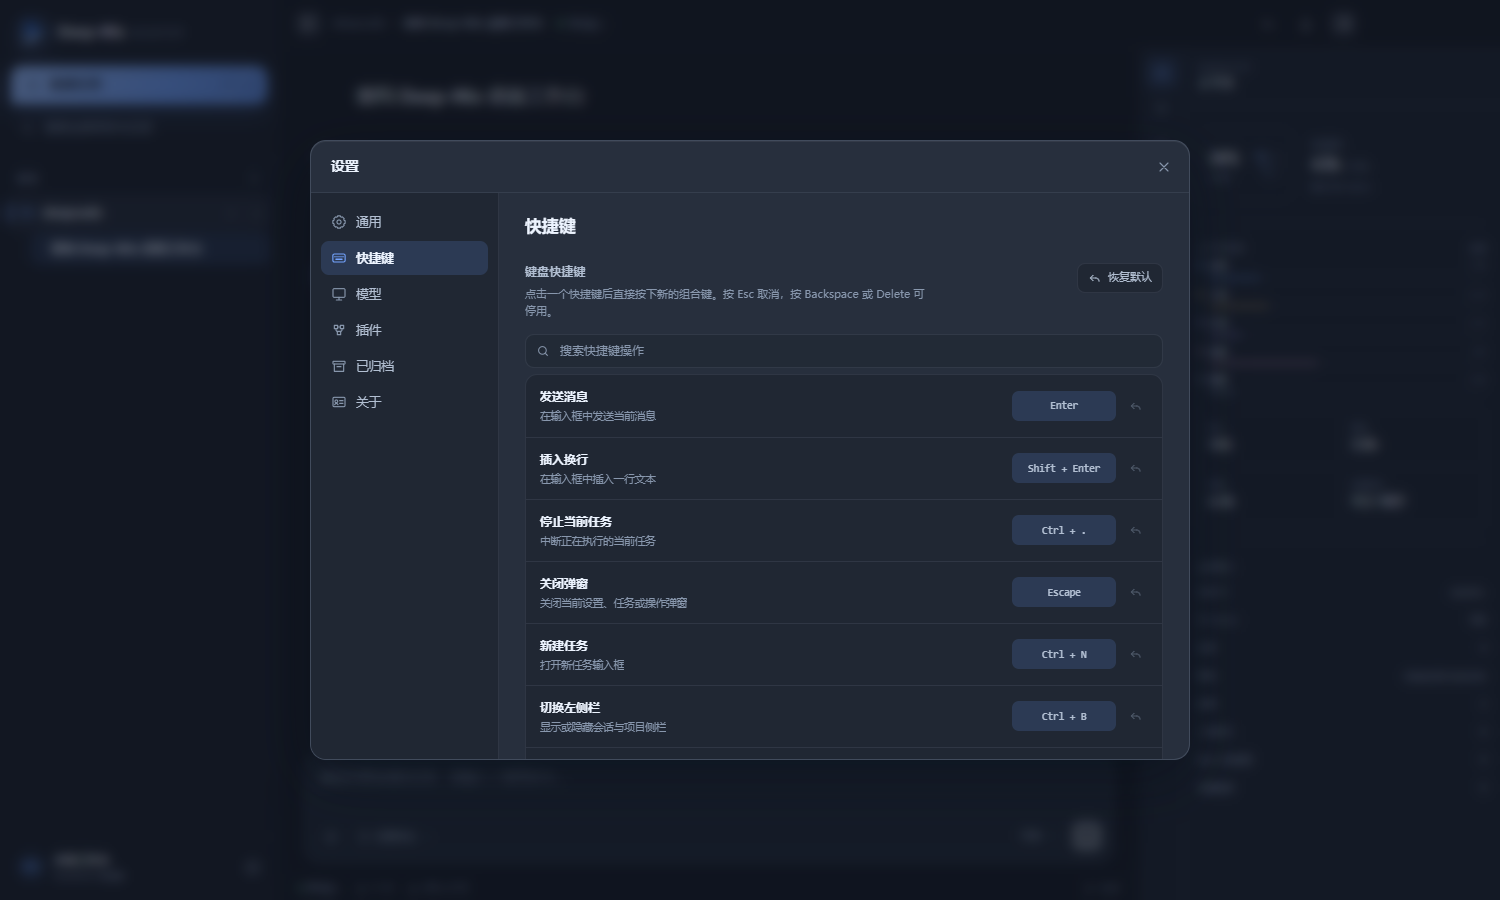
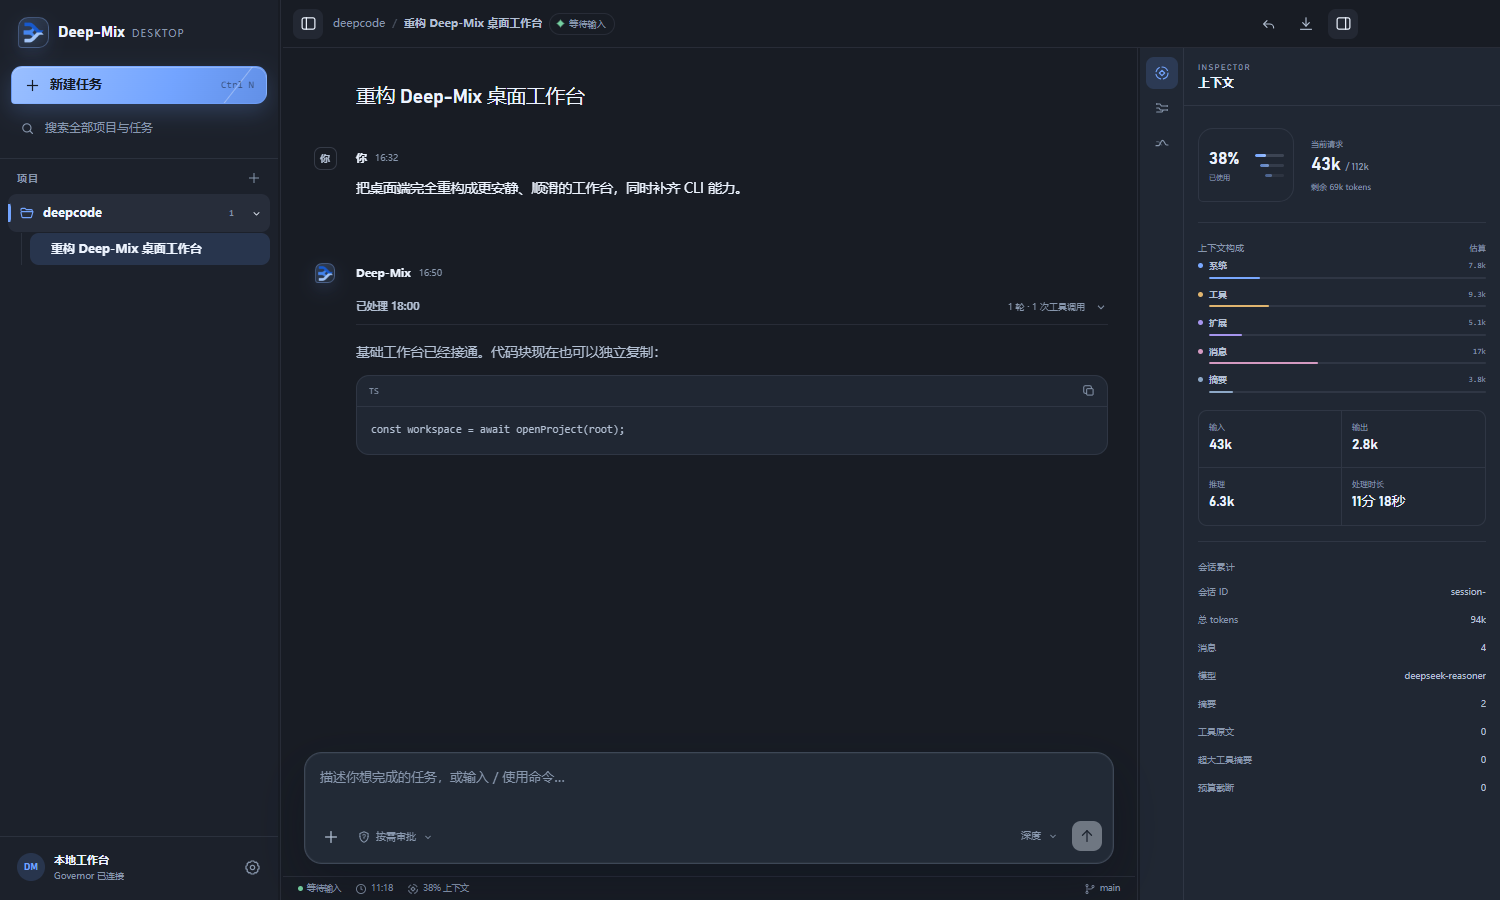
修正：同时展示 Desktop 工作台与设置能力
- README 主图恢复为完整亮色和暗色桌面工作台
- 模型中心与可配置快捷键作为双栏补充截图
- 所有画面使用脱敏演示数据

diff --git a/README.md b/README.md
@@ -8,6 +8,10 @@ Deep-Mix is a local-first, multi-model coding-agent runtime. A configurable `gov
 
 ![Deep-Mix desktop in light mode](docs/assets/desktop-light.png)
 
+| v1.1.0 model center | Configurable keyboard shortcuts |
+| --- | --- |
+| ![Deep-Mix model center](docs/assets/settings-models-light.png) | ![Deep-Mix keyboard shortcuts](docs/assets/settings-shortcuts-dark.png) |
+
 ## Why Deep-Mix
 
 Most multi-model demos route a prompt and concatenate answers. Deep-Mix treats orchestration as a runtime problem:

diff --git a/README.zh-CN.md b/README.zh-CN.md
@@ -8,6 +8,10 @@ Deep-Mix 是一个本地优先的多模型 coding agent runtime。可配置的 `
 
 ![Deep-Mix 桌面端深色模式](docs/assets/desktop-dark.png)
 
+| v1.1.0 模型中心 | 可配置键盘快捷键 |
+| --- | --- |
+| ![Deep-Mix 模型中心](docs/assets/settings-models-light.png) | ![Deep-Mix 键盘快捷键](docs/assets/settings-shortcuts-dark.png) |
+
 ## 它解决什么问题
 
 Deep-Mix 不只是把提示词路由给多个模型，而是把多模型协作做成一套可审计的 runtime：
